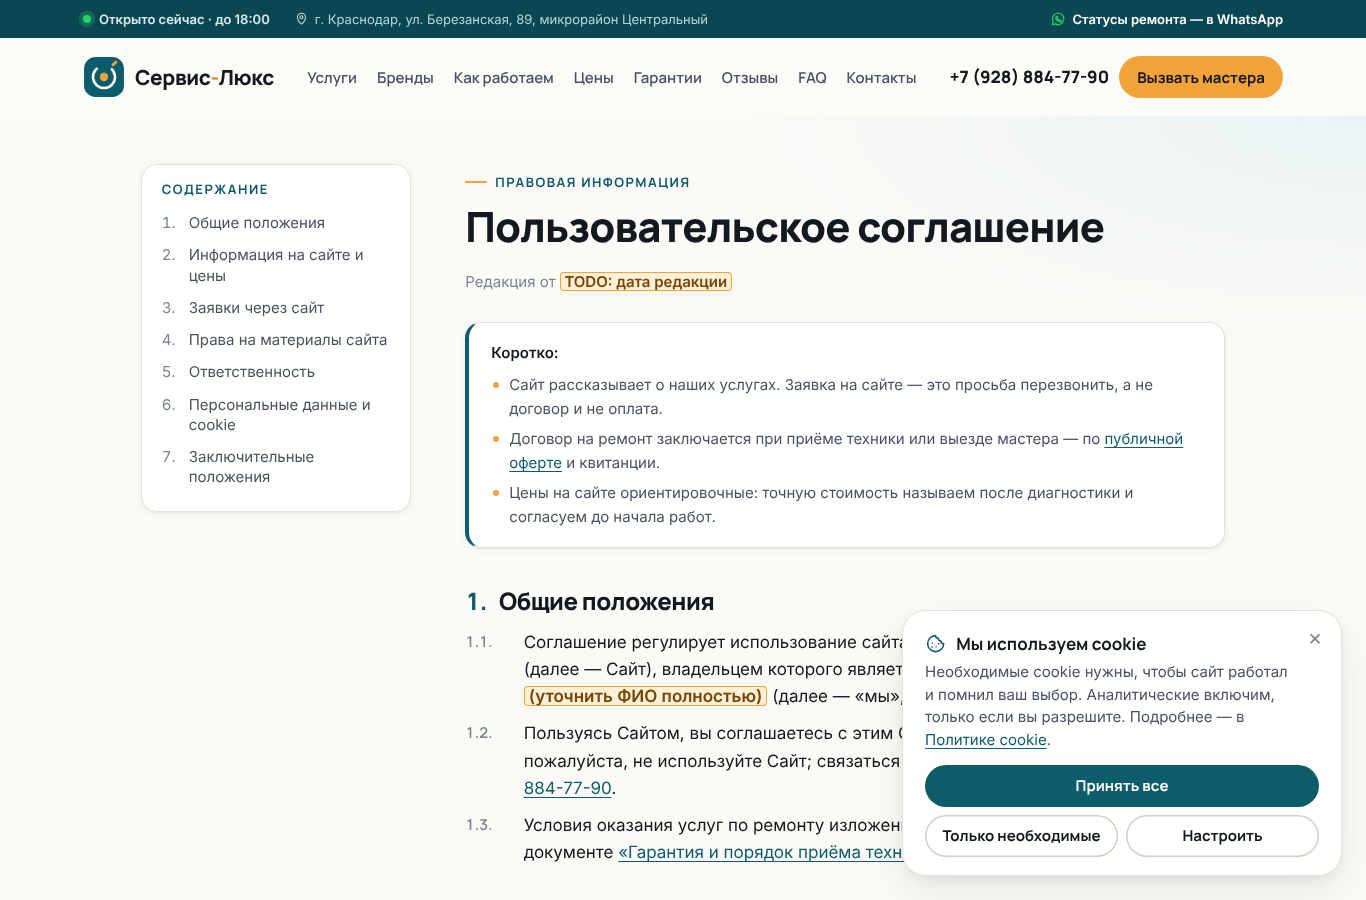
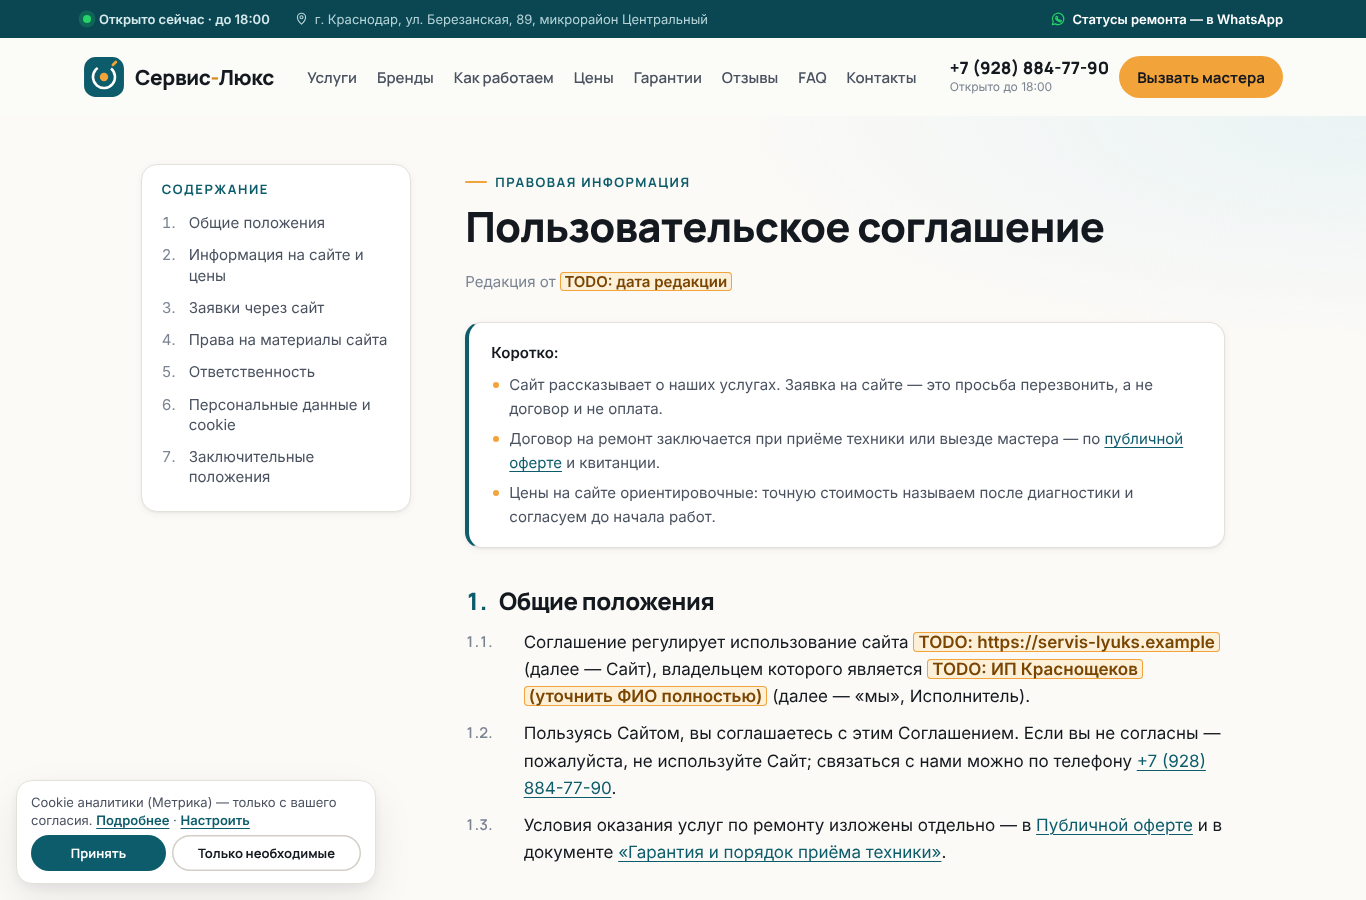
Приёмка юр. части: компактный cookie-баннер
Claude-Session: https://claude.ai/code/session_01MjrRxoxtDoTSH5vWoqp8Aa

diff --git a/agent-context/innokentiy/gen_gallery.py b/agent-context/innokentiy/gen_gallery.py
@@ -1,0 +1,217 @@
+# Сцены галереи 640×480 + декоративные фоны
+import math
+from lib import *
+
+W, H = 640, 480
+SW = 3
+SK = ASOFT
+
+
+def bg(pid, floor=400, shadow=None):
+    out = (R(0, 0, W, H, 0, TINT) + R(28, 28, 160, 96, 0, f"url(#{pid}-dots)") +
+           C(560, 70, 40, ASOFT) + R(0, floor, W, H - floor, 0, SOFT) +
+           f'<path d="M0 {floor}H{W}" stroke="{LINE}" stroke-width="2"/>')
+    if shadow:
+        cx, rx = shadow
+        out += E(cx, floor + 2, rx, 9, INK, 'opacity=".08"')
+    return out
+
+
+def scene(name, title, desc, body, floor=400, shadow=None, extra_defs=""):
+    defs = dots_pattern(f"{name}-dots", 16, 1.6) + extra_defs
+    print(name, svg(name + ".svg", W, H, title, desc, bg(name, floor, shadow) + body, defs))
+
+
+def logo_mark(x, y, s=1):
+    """условный знак сервиса без текста: янтарный круг + две белые плашки"""
+    return (f'<g transform="translate({x} {y}) scale({s})">' + badge(0, 0, 16) +
+            NS(R(26, -10, 96, 8, 4, WHITE) + R(26, 4, 64, 6, 3, BSOFT)) + "</g>")
+
+
+def intake_desk():
+    body = G(
+        R(200, 52, 240, 60, 14, BRAND) +
+        # администратор
+        P("M346 246Q346 208 376 204H424Q454 208 454 246Z", BRAND) +
+        P("M386 204L400 222L414 204Z", BSOFT) +
+        R(391, 188, 18, 18, 0, SK) +
+        C(400, 166, 26, SK) +
+        P("M374 166Q372 136 400 136Q428 136 426 166Q414 150 390 152Q380 156 374 166Z", INK) +
+        C(428, 146, 10, INK) +
+        # монитор (вид сзади)
+        R(272, 172, 84, 58, 6, LINE) + P("M306 230H322L326 242H302Z", LINE) +
+        # стойка
+        R(108, 240, 424, 16, 5, LINE) +
+        R(120, 256, 400, 144, 0, WHITE) +
+        S("M200 256V400M280 256V400M360 256V400M440 256V400") +
+        # кофемашина клиента
+        R(150, 146, 66, 94, 10) + R(160, 156, 46, 16, 4, BRAND) + R(160, 180, 46, 50, 5, SOFT) +
+        R(176, 180, 14, 10, 3, LINE) + R(172, 206, 22, 18, 3) +
+        # телефон на штативе — фотофиксация
+        S("M244 240L234 226M244 240L254 226M244 240V212") + R(226, 188, 36, 24, 5, INK) +
+        C(244, 200, 7, BSOFT) +
+        # акт
+        P("M450 238L462 214H514L502 238Z", WHITE) +
+        # растение
+        P("M560 330Q540 300 548 270Q570 292 568 330Z", BRAND) + P("M572 330Q584 296 608 286Q606 316 580 334Z", BRAND) +
+        P("M566 330Q558 292 572 262Q584 292 576 330Z", BSOFT) +
+        P("M546 330H602L594 400H554Z", ASOFT), SW)
+    det = NS(C(254, 200, 2, ACC) + S("M470 224H500M466 230H490", BRAND, 2) + C(196, 164, 3.5, ACC) +
+             R(180, 290, 280, 10, 5, BSOFT))
+    flash = G(S("M218 176l-8 -8M230 168v-10"), 3, f'stroke="{ACC}"')
+    scene("intake-desk", "Стойка приёмки",
+          "Администратор за стойкой приёмки, на стойке кофемашина клиента, телефон на штативе для фотофиксации и акт приёма.",
+          body + det + flash + logo_mark(236, 82) + sparkle(110, 200, 9) + sparkle(560, 180, 7, BRAND), shadow=(320, 230))
+
+
+def workshop():
+    defs = ('<pattern id="workshop-peg" width="20" height="20" patternUnits="userSpaceOnUse">'
+            f'<circle cx="10" cy="10" r="2" fill="{LINE}"/></pattern>')
+    body = G(
+        # окно
+        R(440, 46, 150, 116, 8, BSOFT) + S("M515 46V162M440 104H590") +
+        # перфопанель
+        R(70, 56, 320, 150, 10) + R(70, 56, 320, 150, 10, "url(#workshop-peg)", 'stroke="none"'), SW)
+    tools = (tube("M120 90V170", 9, WHITE, SW) + G(C(120, 84, 13) + C(120, 84, 5, BSOFT) + C(120, 178, 11) + C(120, 178, 4.5, BSOFT), SW) +
+             tube("M170 80V128", 3, LINE, SW) + G(R(160, 126, 20, 52, 8, ACC) + S("M167 138V166M173 138V166"), SW) +
+             tube("M214 82L234 176M254 82L234 176", 7, BRAND, SW) + G(C(234, 104, 6, LINE), SW) +
+             tube("M300 96V180", 8, ASOFT, SW) + G(R(276, 78, 48, 22, 6, INK), SW) +
+             G(R(340, 90, 30, 70, 8, BSOFT) + C(355, 112, 7, WHITE) + S("M345 140h20M345 150h20"), SW))
+    bench = G(
+        R(60, 264, 520, 18, 4, LINE) + R(80, 282, 16, 118, 0, LINE) + R(544, 282, 16, 118, 0, LINE) +
+        R(96, 350, 448, 10, 0, LINE) +
+        R(120, 316, 70, 34, 4, ASOFT) + R(204, 322, 60, 28, 4, BSOFT) + R(420, 312, 90, 38, 4, WHITE) +
+        # мотор
+        R(250, 206, 120, 58, 12, LINE) + E(250, 235, 10, 29, SOFT) + S("M276 206V264M300 206V264M324 206V264") +
+        R(370, 228, 26, 14, 3, INK) +
+        # мультиметр
+        R(150, 186, 56, 78, 8, ACC) + R(158, 194, 40, 22, 4) + C(178, 236, 11) + S("M178 236l6 -6") +
+        # лампа
+        E(480, 262, 34, 6, INK) +
+        tube("M480 256L452 180L510 132", 8, BRAND, SW) +
+        P("M492 118L536 142L520 158Z", BRAND) +
+        C(466, 410, 0.1, "none"), SW)
+    light = NS(P("M528 150L520 158L470 256H560Z", ASOFT, 'opacity=".85"') + S("M164 205h6l3 -6 4 10 3 -6h18", BRAND, 2))
+    scene("workshop", "Мастерская",
+          "Рабочее место мастера: перфопанель с инструментом, верстак с электродвигателем, мультиметром и лампой.",
+          body + tools + light + bench + sparkle(600, 220, 8) + sparkle(44, 230, 7, BRAND), shadow=(320, 270), extra_defs=defs)
+
+
+def parts_shelf():
+    shelves = [140, 240, 340]
+    rows = [
+        [(140, 50, 52, ASOFT), (196, 70, 64, WHITE), (272, 44, 40, BSOFT), (322, 80, 70, BRAND), (412, 54, 46, WHITE), (474, 38, 34, ASOFT)],
+        [(140, 64, 56, WHITE), (210, 48, 44, ACC), (264, 70, 60, BSOFT), (440, 66, 52, WHITE)],
+        [(140, 90, 60, BSOFT), (236, 56, 46, ASOFT), (300, 74, 70, WHITE), (382, 50, 38, BRAND), (440, 70, 56, ASOFT)],
+    ]
+    boxes = ""
+    for sy, row in zip(shelves, rows):
+        for (x, w, h, c) in row:
+            boxes += R(x, sy - h, w, h, 4, c)
+            lab = WHITE if c != WHITE else SOFT
+            boxes += R(x + w / 2 - 12, sy - h / 2 - 6, 24, 12, 2, lab)
+    body = G(
+        R(112, 40, 16, 360, 4, LINE) + R(512, 40, 16, 360, 4, LINE) +
+        "".join(R(112, y, 416, 12, 2, LINE) for y in shelves) + boxes +
+        # насос и плата на средней полке
+        C(364, 214, 22, LINE) + C(364, 214, 9, WHITE) + R(386, 206, 34, 14, 4, LINE) +
+        R(334, 228, 0.1, 0.1, 0, "none"), SW)
+    tags = NS("".join(C(x + w / 2 + 8, sy - h / 2, 2.5, ACC) for sy, row in zip(shelves, rows) for (x, w, h, c) in row[::2]))
+    tag = G(S("M560 140V176") + P("M546 176H574V214L560 226L546 214Z", ACC) + C(560, 186, 3.5, WHITE), SW)
+    barc = NS(S("M552 198v14M556 198v14M559 198v14M564 198v14M568 198v14", INK, 1.6))
+    scene("parts-shelf", "Склад запчастей",
+          "Стеллаж с промаркированными коробками запчастей, насос на полке и янтарная бирка со штрихкодом.",
+          body + tags + tag + barc + sparkle(70, 200, 9) + sparkle(590, 300, 7, BRAND), shadow=(320, 230))
+
+
+def parking_facade():
+    body = G(
+        # здание
+        R(70, 78, 500, 16, 4, LINE) + R(84, 94, 472, 306, 0, WHITE) +
+        R(110, 112, 280, 52, 10, BRAND) +
+        R(420, 112, 112, 80, 6, BSOFT) + S("M476 112V192") +
+        # вход
+        R(128, 236, 92, 164, 6, BSOFT) + S("M174 236V400") + R(162, 310, 6, 26, 3, INK) + R(180, 310, 6, 26, 3, INK) +
+        P("M116 220H232L224 236H124Z", ACC) +
+        # витрина
+        R(256, 236, 180, 112, 6, BSOFT) + S("M346 236V348") +
+        # ступенька
+        R(116, 400, 116, 10, 3, LINE) +
+        # знак P
+        R(478, 222, 44, 44, 8, BRAND) +
+        # автомобиль
+        P("M402 396V372Q402 360 414 358L446 352L474 326Q480 320 490 320H556Q566 320 572 328L590 352Q608 356 610 370V396Z", BRAND) +
+        P("M482 330H520V352H460Z", BSOFT) + P("M528 330H554Q560 330 564 336L574 352H528Z", BSOFT) +
+        C(444, 398, 18, INK) + C(444, 398, 7, LINE) + C(566, 398, 18, INK) + C(566, 398, 7, LINE), SW)
+    det = NS(S("M491 256V232H503Q511 232 511 239Q511 246 503 246H491", WHITE, 4, 'stroke-linecap="round" stroke-linejoin="round"') +
+             S("M270 260l22 -16M290 282l40 -30M380 270l30 -22", WHITE, 4, 'stroke-linecap="round" opacity=".8"') +
+R(0, 410, W, 70, 0, LINE, 'opacity=".55"') +
+             "".join(S(f"M{x} 470L{x + 30} 414", WHITE, 4, 'stroke-linecap="round"') for x in (300, 372, 444, 516)) +
+             C(608, 370, 4, ACC))
+    scene("parking-facade", "Фасад и парковка",
+          "Фасад сервиса с вывеской, входом под янтарным козырьком и витриной; рядом парковка со знаком и автомобилем.",
+          body + G(R(40, 300, 14, 100, 4, LINE) + C(47, 262, 40, BRAND) + C(70, 290, 24, BRAND), SW) + det + logo_mark(146, 138) + sparkle(600, 170, 8), shadow=(320, 260))
+
+
+def premium():
+    bottles = ""
+    for i, x in enumerate((432, 456, 480)):
+        for j, y in enumerate((150, 220, 290)):
+            bottles += P(f"M{x - 7} {y + 44}V{y + 18}Q{x - 7} {y + 10} {x - 3} {y + 6}V{y}H{x + 3}V{y + 6}Q{x + 7} {y + 10} {x + 7} {y + 18}V{y + 44}Z", BRAND, f'stroke="{BSOFT}" stroke-width="2"')
+            bottles += R(x - 3, y - 4, 6, 6, 1.5, ACC, 'stroke="none"')
+    body = G(
+        R(90, 52, 460, 22, 4, LINE) +
+        # колонна духовок
+        R(100, 74, 170, 326) +
+        R(114, 94, 142, 76, 8) + R(128, 116, 114, 42, 5, INK) + S("M114 108H256") +
+        R(114, 182, 142, 132, 8) + S("M114 204H256") + R(132, 214, 106, 7, 3.5, LINE) + R(128, 230, 114, 72, 6, INK) +
+        R(114, 326, 142, 56, 6, SOFT) + R(160, 340, 50, 7, 3.5, LINE) +
+        # холодильник
+        R(270, 74, 140, 326) + S("M270 196H410") + R(286, 150, 8, 40, 4, LINE) + R(286, 206, 8, 80, 4, LINE) +
+        # винный шкаф
+        R(410, 74, 92, 326) + R(420, 128, 72, 252, 6, INK) +
+        # тумба с кофемашиной
+        R(502, 240, 110, 160) + R(496, 230, 122, 12, 4, LINE) + S("M502 320H612") + R(540, 280, 34, 6, 3, LINE) + R(540, 356, 34, 6, 3, LINE) +
+        R(522, 150, 70, 80, 10) + R(532, 160, 50, 14, 4, BRAND) + R(532, 182, 50, 40, 5, SOFT) + R(548, 182, 18, 10, 3, LINE), SW)
+    det = NS(R(136, 124, 98, 26, 4, BRAND, 'opacity=".75"') + R(136, 238, 98, 56, 4, BRAND, 'opacity=".75"') +
+             C(146, 132, 3.5, ACC) + C(146, 246, 3.5, ACC) + S("M136 276H234", BSOFT, 2.5) +
+             C(240, 101, 3.5, ACC) + C(240, 193, 3.5, ACC) + R(374, 90, 22, 12, 3, BRAND) + C(568, 167, 3.5, ACC) +
+             "".join(E(x, 76, 14, 3, ASOFT, 'opacity=".9"') for x in (180, 340, 456)) +
+             "".join(C(x, 68, 3.5, ACC) for x in (180, 340, 456)))
+    gl = '<clipPath id="premium-wine"><rect x="420" y="128" width="72" height="252" rx="6"/></clipPath>'
+    scene("premium-appliances", "Премиальная встраиваемая техника",
+          "Кухня с колонной духовых шкафов, встроенным холодильником, винным шкафом и кофемашиной.",
+          body + det + f'<g clip-path="url(#premium-wine)">{bottles}</g>' +
+          S("M420 200H492M420 270H492M420 340H492", BSOFT, 2, 'opacity=".5"') +
+          sparkle(60, 200, 9) + sparkle(600, 110, 7, BRAND), shadow=(350, 280), extra_defs=gl)
+
+
+# ---------- декоративные
+def blob_path(cx, cy, r, amps, seed_rot=0):
+    n_ = len(amps)
+    pts = []
+    for i, a in enumerate(amps):
+        t = 2 * math.pi * i / n_ + seed_rot
+        pts.append((cx + r * a * math.cos(t), cy + r * a * math.sin(t)))
+    d = f"M{pts[0][0]:.1f} {pts[0][1]:.1f}"
+    for i in range(n_):
+        p0, p1, p2, p3 = pts[i - 1], pts[i], pts[(i + 1) % n_], pts[(i + 2) % n_]
+        c1 = (p1[0] + (p2[0] - p0[0]) / 6, p1[1] + (p2[1] - p0[1]) / 6)
+        c2 = (p2[0] - (p3[0] - p1[0]) / 6, p2[1] - (p3[1] - p1[1]) / 6)
+        d += f"C{c1[0]:.1f} {c1[1]:.1f} {c2[0]:.1f} {c2[1]:.1f} {p2[0]:.1f} {p2[1]:.1f}"
+    return d + "Z"
+
+
+def deco():
+    print("pattern-dots", svg_deco("pattern-dots.svg", 24, 24, C(12, 12, 1.6, BRAND, 'opacity=".22"')))
+    b1 = (P(blob_path(300, 300, 250, [1, .88, .97, .84, 1.02, .9, .95, .86]), BSOFT) +
+          P(blob_path(300, 300, 170, [1, .92, 1.04, .9, .98, .94], .5), BRAND, 'opacity=".07"'))
+    print("blob-brand", svg_deco("blob-brand.svg", 600, 600, b1))
+    b2 = (P(blob_path(300, 300, 240, [1, .9, 1.03, .86, .98, .92, 1.0], .3), ASOFT) +
+          P(blob_path(300, 300, 262, [1, .9, 1.03, .86, .98, .92, 1.0], .3), "none", f'stroke="{ACC}" stroke-width="2" stroke-dasharray="3 12" stroke-linecap="round" opacity=".7"'))
+    print("blob-accent", svg_deco("blob-accent.svg", 600, 600, b2))
+
+
+if __name__ == "__main__":
+    for f in (intake_desk, workshop, parts_shelf, parking_facade, premium, deco):
+        f()

diff --git a/LEGAL.md b/LEGAL.md
@@ -58,7 +58,7 @@
 ### Техническое
 - [x] **Шрифты размещены локально** (решение принято разработчиками). Перед запуском убедиться, что в `src/head.html` нет обращений к `fonts.googleapis.com` / `fonts.gstatic.com` — иначе вернуть в Политику пункт о передаче IP за рубеж.
 - [ ] **Хостинг в РФ** (см. выше).
-- [ ] Яндекс.Метрика: создать счётчик, вписать номер в `js/config.js` → `yandexMetrikaId`. Скрипт сам загрузится только у тех, кто нажал «Принять все» или включил «Аналитику». Вебвизор выключен; включать только после консультации с юристом. Сверить перечень cookie Метрики в `cookies.html`.
+- [ ] Яндекс.Метрика: создать счётчик, вписать номер в `js/config.js` → `yandexMetrikaId`. Скрипт сам загрузится только у тех, кто нажал «Принять» в cookie-баннере или включил «Аналитику». Вебвизор выключен; включать только после консультации с юристом. Сверить перечень cookie Метрики в `cookies.html`.
 - [x] Карта Яндекса в «Контактах» загружается только по клику «Показать карту» — до клика Яндекс не получает IP посетителя и не ставит cookie. Так и описано в `privacy.html` и `cookies.html`; если карту снова начнут грузить сразу — обновить документы.
 - [ ] Когда появится собственный приём заявок (вместо WhatsApp) — обновить пункт в Политике и Соглашении.
 - [ ] Вписать дату редакции во все документы (заглушка «TODO: дата редакции»).

diff --git a/PROGRESS.md b/PROGRESS.md
@@ -18,7 +18,7 @@
 | Акакий | sonnet | TASK-004 отзывы | ✅ принято |
 | Вениамин | sonnet | TASK-005 + 005b: подставить реальные фото | ✅ принято |
 | Афанасий | opus | TASK-006 + 006b: карта по клику, локальные шрифты, OG | ✅ принято (карта по клику, шрифты локально, OG) |
-| Феофан | opus | TASK-007 юр. часть | ✅ принято + 🔁 доработка (дата, карта, шрифты) |
+| Феофан | opus | ✅ принято (компактный баннер, даты, формулировки) | ✅ принято + 🔁 доработка (дата, карта, шрифты) |
 | Спиридон | opus | TASK-009 приём заявок (Telegram-worker) + аналитика | ✅ принято (патч main.js применён) |
 | Иннокентий | opus | TASK-010 SVG-иллюстрации вместо серых заглушек | 🔨 в работе |
 | (волна 3) Прокопий | opus | TASK-011 CRO/копирайт-аудит всего лендинга | ⏸ после волны 1 |
